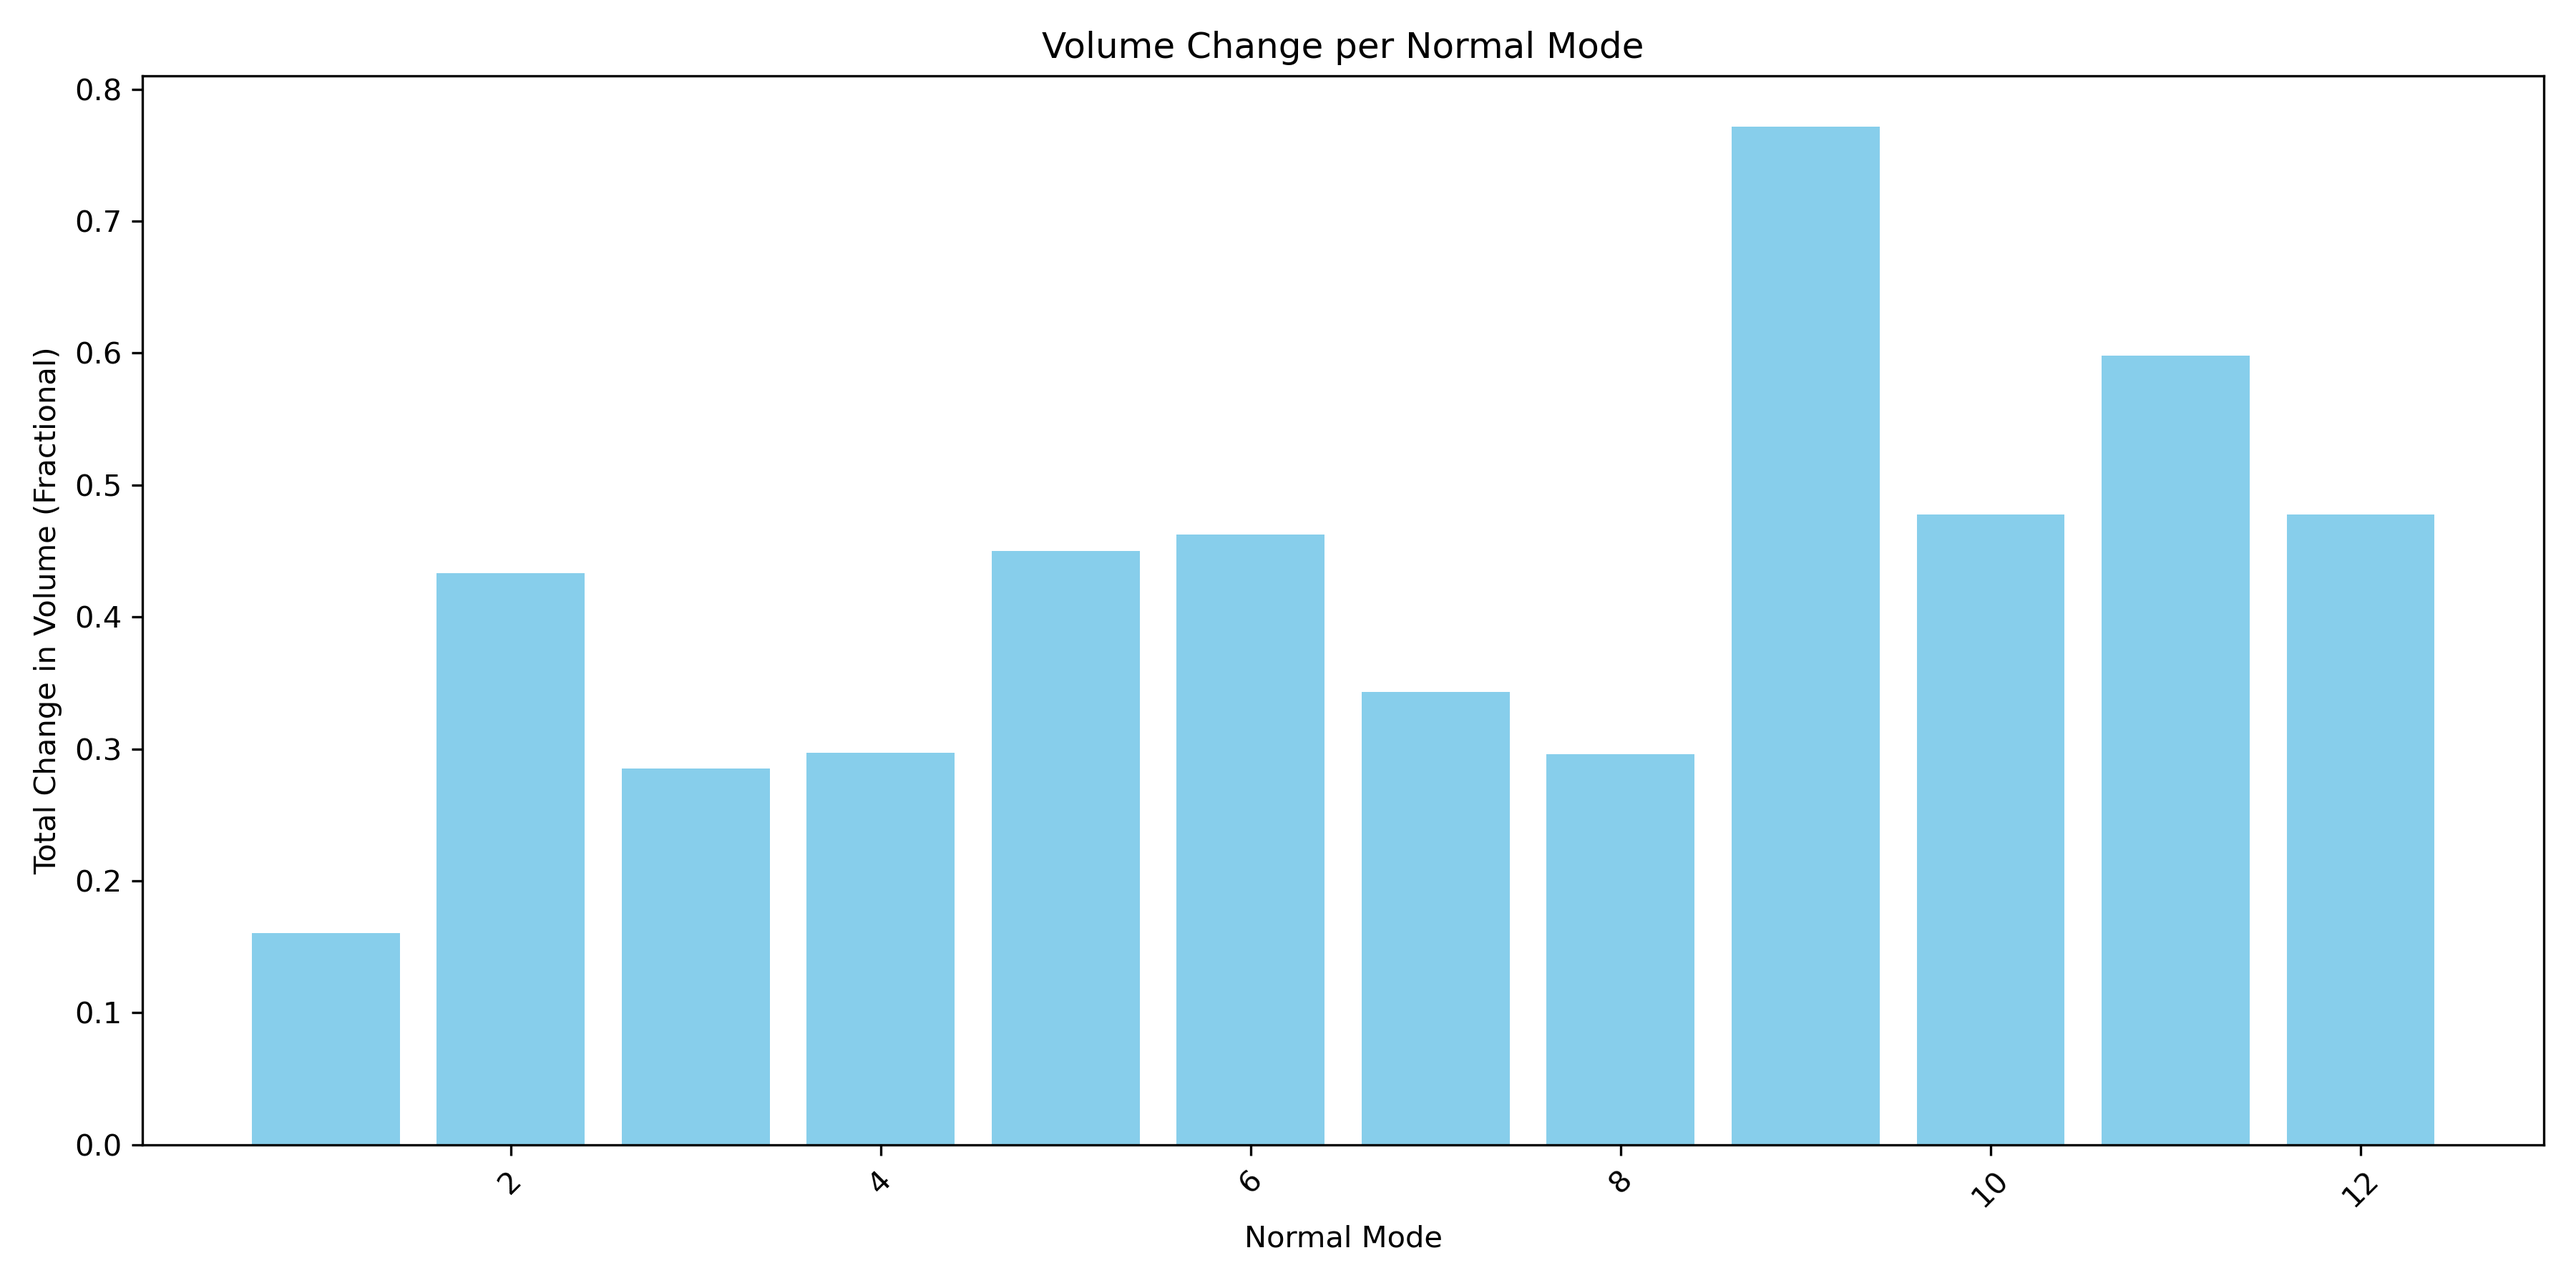
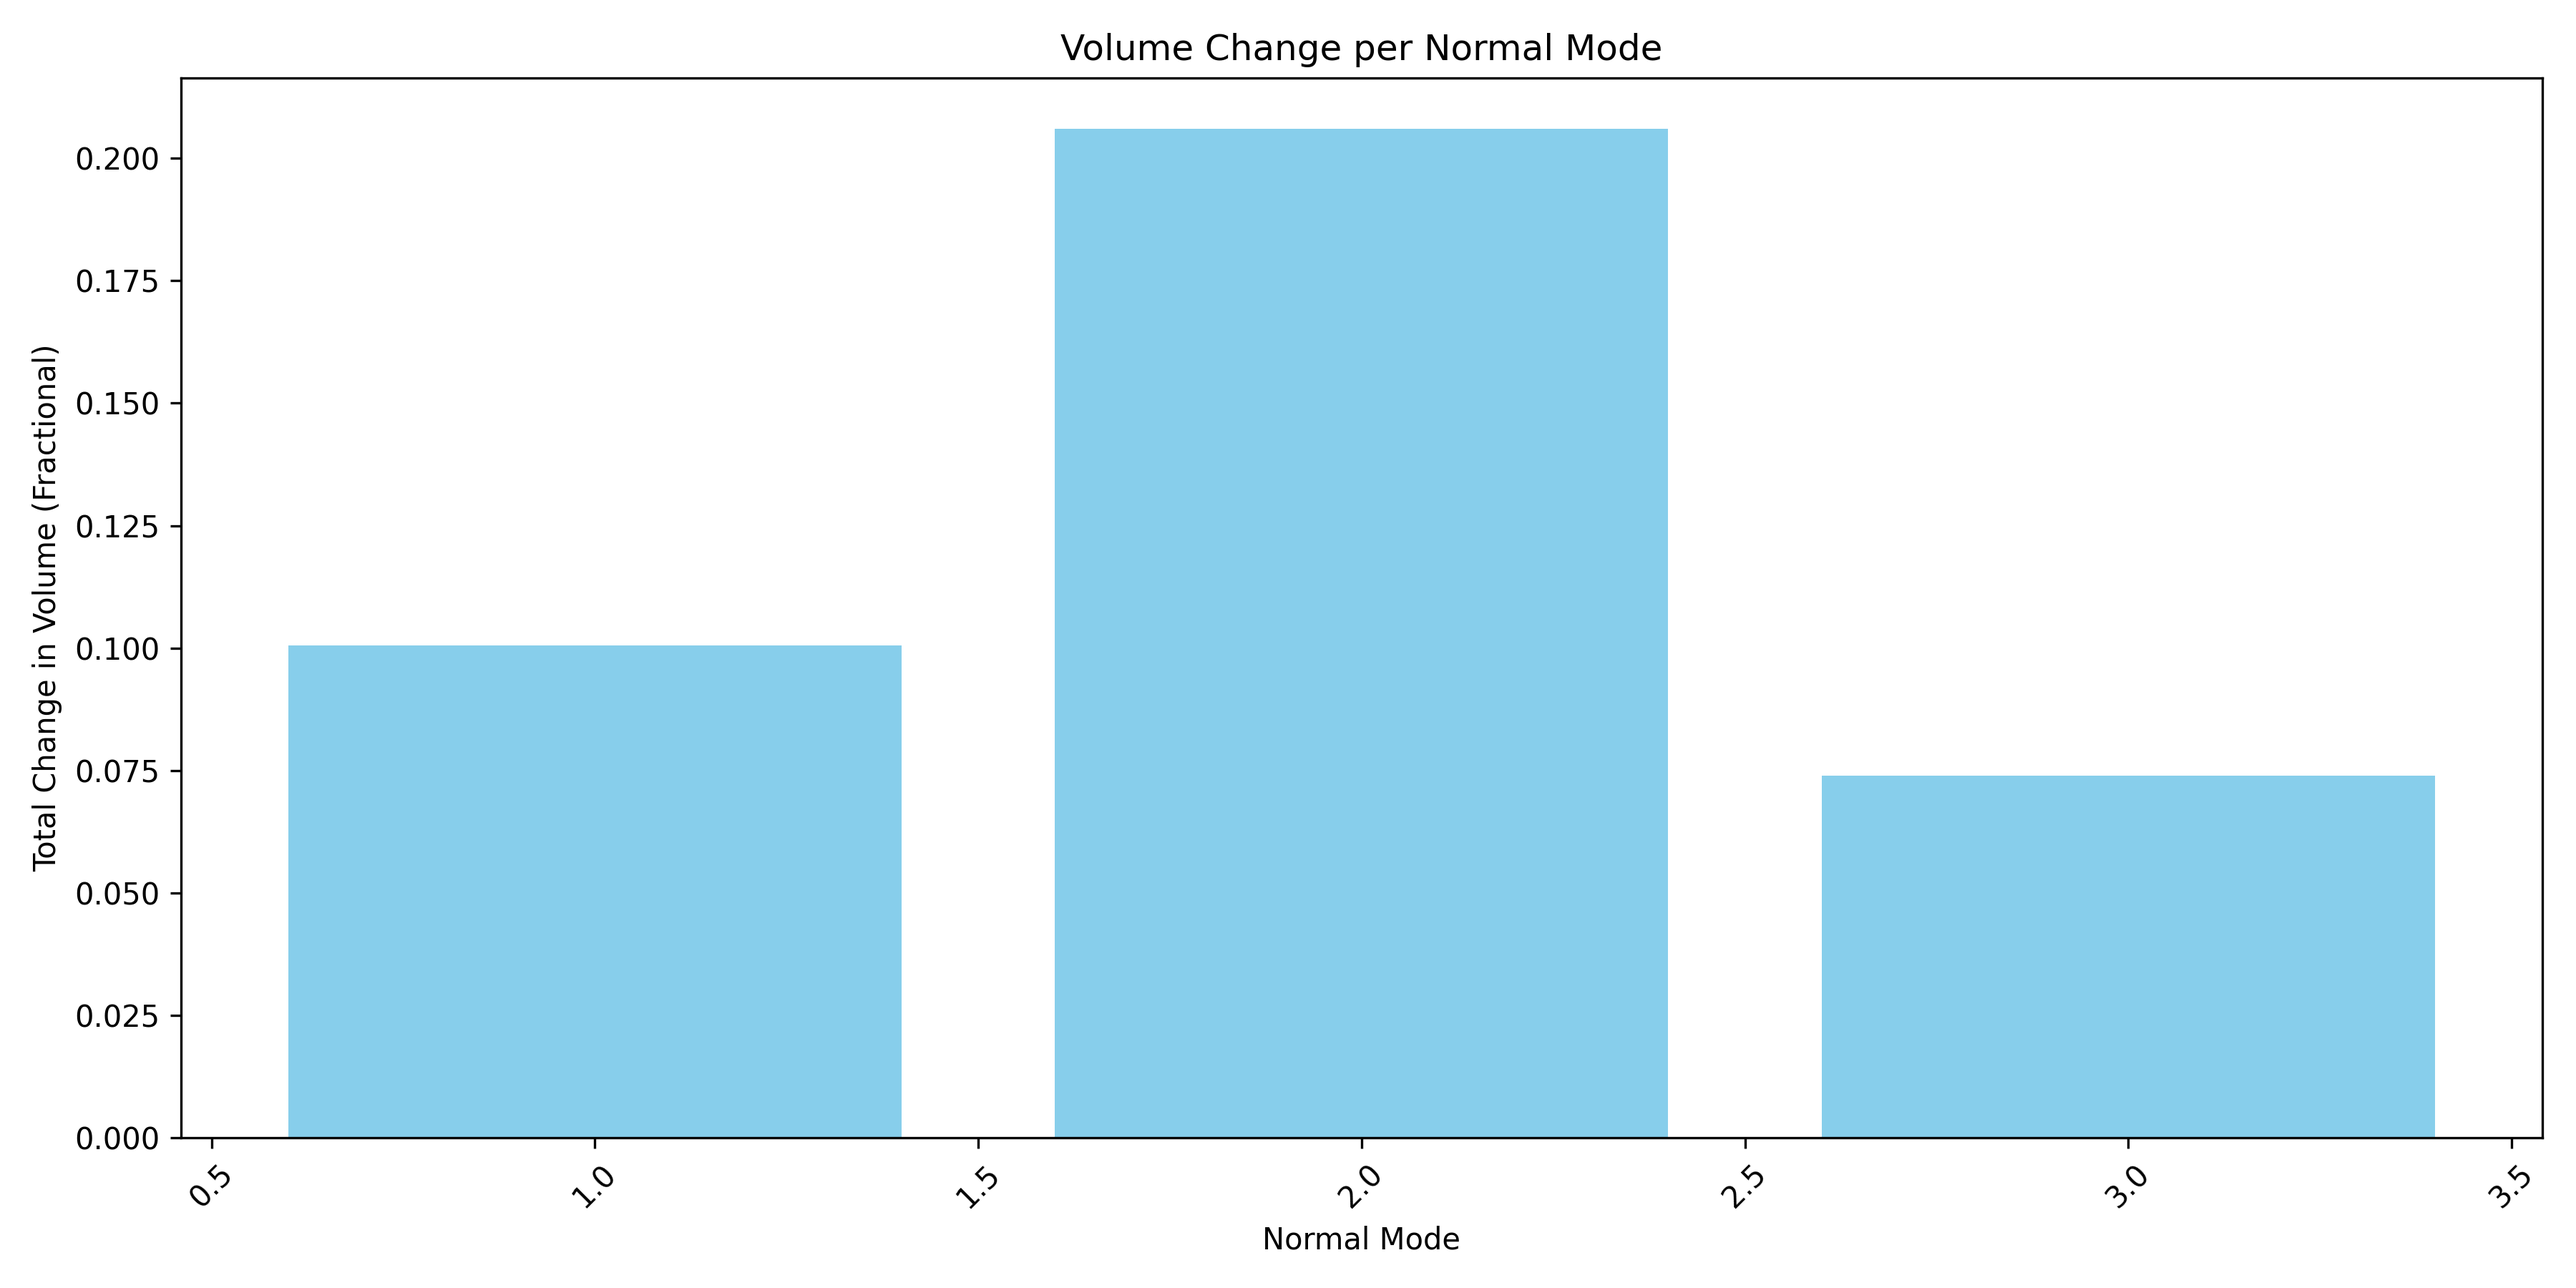
tests

diff --git a/vdw_density_integration.py b/vdw_density_integration.py
@@ -252,6 +252,35 @@ def retrieve_vdw_radii(molecule, elements_table):
 
     return vdw_radii
 
+def retrieve_polarizability(molecule, elements_table):
+    """ 
+    Retrieves the polarizability using mendeleev
+    """
+
+    cols = [
+        "atomic_number",
+        "symbol",
+        "dipole_polarizability"
+    ]
+    elements_table = elements_table[cols] 
+
+    polarizabilities = dict.fromkeys(molecule.keys())
+
+    for key in molecule.keys():
+        remove_digits = str.maketrans("","",digits)
+        key_without_digit = key.translate(remove_digits)
+        polarizability_key = elements_table[elements_table["symbol"]==key_without_digit]["dipole_polarizability"].values[0]
+        
+        # Unit is given in bohr^3
+        # Convert to Angstrom for radius usage
+
+        polarizability_key = np.sqrt(polarizability_key) * 0.52917721092 
+        polarizabilities[key] = polarizability_key
+
+    
+    
+    return polarizabilities
+
 def gaussian_3d(a=1,b=(1,1,1),c=1,x=(0,0,0)):
     """ 
     Computes a 3D gaussian function
@@ -489,6 +518,43 @@ def check_normalization(normal_mode):
     displacements = normal_mode["displacements"]
     disp_array = np.array([(d.get("x",0), d.get("y",0),d.get("z",0)) for d in displacements.values()])
 
+    
+def check_orthogonality(normal_modes):
+    """ 
+    Function to check the orthogonality of the normal modes 
+    """
+
+    # Each mode --> 1 Displacement vector
+    mode_vectors = []
+    for mode in normal_modes.values():
+        disp = mode["displacements"]
+        mode_vector = []
+        for atom, displacement in disp.items():
+            # Create a vector for the displacement
+            vector = np.array([
+                displacement.get("x", 0),
+                displacement.get("y", 0),
+                displacement.get("z", 0)
+            ])
+            mode_vector.extend(vector)
+        mode_vectors.append(np.array(mode_vector))
+
+    # Check orthogonality
+    num_modes = len(mode_vectors)
+    orthogonal = True
+    for i in range(num_modes):
+        for j in range(i + 1, num_modes):
+            dot_product = np.dot(mode_vectors[i], mode_vectors[j])
+            if not np.isclose(dot_product, 0, atol=1e-6):
+                #print(f"Modes {i+1} and {j+1} are not orthogonal (dot product: {dot_product})")
+                orthogonal = False
+    if orthogonal:
+        print("All modes are orthogonal.")
+    else:
+        print("Normal Modes are not orthogonal --> Non-Mass-Weighted Normal Modes")
+ 
+
+
 
 def calculate_volume_change(molecule, vdw_radii, normal_mode, lam_dis=0.1):
     """ 
@@ -554,7 +620,7 @@ def calculate_volume_change(molecule, vdw_radii, normal_mode, lam_dis=0.1):
         delta_S_over_S = - lam_dis / (c1_sq + c2_sq) * np.dot(d, delta_q)
 
         # Calculate absolute value and write to results
-        delta_S_over_S_abs = abs(delta_S_over_S)
+        delta_S_over_S_abs = np.abs(delta_S_over_S)
         results[(atom1, atom2)] = {
             "delta_S_over_S": delta_S_over_S,
             "delta_S_over_S_abs": delta_S_over_S_abs,
@@ -567,7 +633,99 @@ def calculate_volume_change(molecule, vdw_radii, normal_mode, lam_dis=0.1):
     # Calculate the total change as a sum of absolute changes
     total_change = sum(res['delta_S_over_S_abs'] for res in results.values())
     return total_change, results
-        
+
+
+# Ok maybe try a little bit different implementation
+
+def calculateS0(a1,a2,c1,c2):
+    """ 
+    Function that calculates the prefactor for the overlap integral
+    """
+    return a1 * a2 * (2 *np.pi * c1**2 * c2**2 / (c1**2 + c2**2))**(3/2)
+
+def calculate_initial_overlap(b1,b2,a1,a2,c1,c2):
+    """ 
+    Function that calculates the initial overlap S between the two Gaussians
+    """    
+    r = np.linalg.norm(np.array(b1) - np.array(b2))
+    exponent = -r**2 / (2 * (c1**2 + c2**2))
+    S0 = calculateS0(a1,a2,c1,c2)
+    return S0 * np.exp(exponent)
+
+def calculate_delta_S(S,r,u1,u2,c1,c2):
+    """ 
+    Function that calculates the change in overlap between two Gaussians where u1,u2 are the displacements at the gaussians
+    """
+    relative_disp = np.array(u1) - np.array(u2)
+    dot_product = np.dot(r, relative_disp)
+    return -S * (dot_product / (c1**2 + c2**2))
+
+
+def compute_mode_norm(displacments):
+    """ 
+    Computes the euclidian norm of the entire normal mode
+    """
+    total = 0.0
+    for atom, disp in displacments.items():
+        total += disp["x"]**2 + disp["y"]**2 + disp["z"]**2
+    return np.sqrt(total)
+
+
+
+def calculate_volume_change_v2(molecule, vdw_radii, normal_mode):
+    """ 
+    New function to calculate the volume change using the new approach
+    """
+    volume_changes = {}   
+
+    displacements = normal_mode['displacements']
+    a = normalization_parameter()  # Normalization parameter for Gaussian
+
+    atoms = list(displacements.keys())
+
+    # Calculate the norm of the normal mode
+    mode_norm = compute_mode_norm(displacements)
+    
+
+    total_delta_S = 0.0
+    for i in range(len(atoms)):
+        for j in range(i+1, len(atoms)): # Avoid Duplicates
+            atom1, atom2 = atoms[i], atoms[j]
+
+            # Get equilibrium positions and displacements
+            b1 = molecule[atom1]
+            b2 = molecule[atom2]
+            
+            # Get displacements for the current mode
+            u1 = np.array([
+                displacements[atom1].get('x', 0),
+                displacements[atom1].get('y', 0),
+                displacements[atom1].get('z', 0)
+            ])
+            u2 = np.array([
+                displacements[atom2].get('x', 0),
+                displacements[atom2].get('y', 0),
+                displacements[atom2].get('z', 0)
+            ])
+            # Calculate the initial overlap S0
+            c1 = vdw_radii[atom1] / 100  # Convert to Angstrom
+            c2 = vdw_radii[atom2] / 100  # Convert to Angstrom
+            
+            # Calculate the initial overlap S0
+            S0 = calculate_initial_overlap(b1, b2, a, a, c1, c2)
+            
+            # Calculate the Change in overlap delta_S
+            r = np.array(b1) - np.array(b2)  # Distance vector between the two atoms
+            delta_S = calculate_delta_S(S0, r, u1, u2, c1, c2)
+
+            # Store the results
+            volume_changes[f"{atom1}-{atom2}"] = delta_S
+            # Take the absolute value of the change
+            delta_S_abs = np.abs(delta_S)
+            total_delta_S += delta_S_abs
+
+    
+    return total_delta_S, volume_changes
 
 def barplot_change(results_change):
     """ 
@@ -614,22 +772,58 @@ def main():
 
     # Extract the vdw radii
     vdw_radii = retrieve_vdw_radii(molecule,elements_table) 
+    polarizabilities = retrieve_polarizability(molecule, elements_table)
+    print(polarizabilities, vdw_radii)
     pairwise_overlaps_dict = compute_pairwise_vdw_overlaps(molecule,vdw_radii)
 
     detailed_results_change = []
     results_change = []
-    for mode in normal_modes.keys():
 
-        total_change_mode, detailed_results = calculate_volume_change(molecule, vdw_radii, normal_modes[mode], lam_dis=0.1)
-        detailed_results_change.append({
-            "mode": mode,
-            "total_change": total_change_mode,
-            "detailed_results": detailed_results
-        }) 
-        results_change.append({
-            "mode": mode,
-            "total_change": total_change_mode
-        })
+
+    # Check Orthogonality
+    check_orthogonality(normal_modes)
+
+    # Calculate the volume change for each normal mode
+
+    changes_results = {}
+    delta_S_list = []
+    for mode in normal_modes.keys():
+        total_delta_S, changes = calculate_volume_change_v2(molecule, vdw_radii, normal_modes[mode])
+        changes_results[mode] = {
+            "total_change": total_delta_S,
+            "changes": changes
+        }
+        delta_S_list.append(total_delta_S)
+    print(delta_S_list)
+
+    # Plot delta_S_list
+    plt.figure(figsize=(10, 6))
+    plt.bar(changes_results.keys(), delta_S_list, color='skyblue')
+    plt.xlabel('Normal Mode')
+    plt.ylabel('Volume Change Delta S')
+    plt.title('Volume Change per Normal Mode')
+    plt.xticks(rotation=45)
+    plt.tight_layout()
+    plt.savefig("volume_change_per_normal_mode_v2.png", dpi=300)
+    plt.show()
+
+
+
+#    for mode in normal_modes.keys():
+#
+#        total_change_mode, detailed_results = calculate_volume_change(molecule, vdw_radii, normal_modes[mode], lam_dis=0.1)
+#        detailed_results_change.append({
+#            "mode": mode,
+#            "total_change": total_change_mode,
+#            "detailed_results": detailed_results
+#        }) 
+#        results_change.append({
+#            "mode": mode,
+#            "total_change": total_change_mode
+#        })
+#
+#    print(normal_modes)
+    
     
 
     
@@ -639,7 +833,7 @@ def main():
     # Some visualization functions
     #plot_vdw_gaussian_density(molecule,vdw_radii,resolution=50,isovalue=0.5)
     #visualize_normal_mode(molecule,normal_modes,3)
-    barplot_change(results_change)
+    #barplot_change(results_change)
 
 
 

diff --git a/formulas.md b/formulas.md
@@ -1,0 +1,92 @@
+# Overlap Integral Calculation for Normal Modes
+
+## Some General Definitions
+
+**3D Gaussian Function**
+
+Given by 
+
+$$f_i(r) = a_i \exp\left(-\frac{(r-b_i)^T(r-b_i)}{2c_i^2}\right)$$ 
+
+where:
+
+- $a_i$ is the amplitude,
+- $b_i$ is the center,
+- $c_i$ is the width.
+
+**Overlap Integral**
+
+As $r=(x,y,z)$ is a position vector and $b_i = (b_{ix}, b_{iy}, b_{iz})$ is the center of the Gaussian, the overlap integral is defined as:
+
+
+$$S= \int_{\mathbb{R}^3} f_i(r) f_j(r) dr = \int_{-\infty}^{+\infty} \int_{-\infty}^{+\infty} \int_{-\infty}^{+\infty} f_i(x,y,z) f_j(x,y,z) dx dy dz$$
+
+We can use the Gaussian Product Theorem and know that the integral of a general Gaussian function is given by $\int_{-\infty}^{\infty} \exp(-\alpha u^2) du = \sqrt{\frac{\pi}{\alpha}}$.
+
+This leads us in the end to the expression:
+
+$$S = a_1 a_2 \left(\frac{2\pi c_1^2 c_2^2}{c_1^2 + c_2^2}\right)^{3/2} \exp\left(-\frac{(b_1 - b_2)^T(b_1 - b_2)}{2(c_1^2 + c_2^2)}\right)$$
+
+**Normalization to the Volume of the VDW Sphere**
+
+In order to determine the parameters $a_i$ for our Gaussian functions we have to normalize the Gaussian function to the volume of the VDW sphere. Mathematically this means:
+
+$$\int_{\mathbb{R}^3} f_i(r) dr = V_{vdw} = \frac{4}{3} \pi r_{vdw}^3$$
+
+This leads us after some tedious calculations to the expression:
+
+$$a_i = \frac{r^3_{vdw}}{3\sqrt{2\pi} c_i^3}$$
+
+As we model the Gaussian Sphere at the moment we take $c_i = r_{vdw}$, which leads to:
+
+$$a_i = \frac{r^3_{vdw}}{3\sqrt{2\pi} r_{vdw}^3} = \frac{1}{3\sqrt{2\pi}}$$
+
+
+## Determining the Volume Change 
+
+The following figure shows two atoms with centers $b_1$ and $b_2$ which are distanced by $d = ||b_1 - b_2||$. We now want to calculate the volume change of the VDW spheres if these atoms are displaced by some vectors $u_1$ and $u_2$. In reality this vectors will the be the normal modes of the molecule.
+
+![alt text](image.png)
+
+After the displacements we get new centers $b_1' = b_1 + u_1$ and $b_2' = b_2 + u_2$ we can insert this into the overlap integral:
+
+$$S(b_1',b_2') = a_1 a_2 \left(\frac{2\pi c_1^2 c_2^2}{c_1^2 + c_2^2}\right)^{3/2} \exp\left(-\frac{(b_1' - b_2')^T(b_1' - b_2')}{2(c_1^2 + c_2^2)}\right)$$
+
+$$S(b_1 + u_1, b_2 + u_2) = a_1 a_2 \left(\frac{2\pi r_{vdw}^4}{2r_{vdw}^2}\right)^{3/2} \exp\left(-\frac{(b_1 - b_2 + u_1 - u_2)^T(b_1 - b_2 + u_1 - u_2)}{2(c_1^2 + c_2^2)}\right)$$
+
+To simplify this we denote $S_0 = a_1a_2 \left(\frac{2\pi r_{vdw}^4}{2r_{vdw}^2}\right)^{3/2}$
+
+$$S(b_1 + u_1, b_2 + u_2) = S_0 \exp\left(-\frac{(b_1 - b_2 + u_1 - u_2)^T(b_1 - b_2 + u_1 - u_2)}{2(c_1^2 +c_2^2)}\right)$$
+
+### Directional Derivative
+
+We now want a formula to estimate the rate at which our overlap integral changes in a particular direction. This is given by the directional derivative, Because our function is differentiable anyways, we can write the directional derivative as:
+
+$$\nabla_v f(x) = \nabla f(x) \cdot v$$
+
+where $v$ is the direction in which we want to calculate the derivative
+
+### Calculation of the Gradient
+
+Define $r = b_1 - b_2 + u_1 - u_2$ then our overlap integral can be written as:
+
+$$S(b_1 + u_1, b_2 + u_2) = S_0 \exp\left(-\frac{r^Tr}{2(c_1^2+c_2^2)}\right)$$
+
+**Gradient $\nabla_{u_1}S$**
+
+$$\nabla_{u_1}S = S_0 \exp\left(-\frac{r^Tr}{2(c_1^2+c_2^2)}\right) \cdot \nabla_{u_1}\left(-\frac{r^Tr}{2(c_1^2+c_2^2)}\right)$$
+
+Where we can now use $\nabla_{u_1}r = \nabla_{u_1}(b_1 - b_2 + u_1 - u_2) = e_1$ (the unit vector in the direction of $u_1$), which implies $\nabla r = 2r$
+
+$$\nabla_{u_1}S = S\cdot(-\frac{2r}{2(c_1^2+c_2^2)}) = -\frac{Sr}{c_1^2 + c_2^2}$$
+
+**Gradient $\nabla_{u_2}S$**
+
+Here we get exactly the same result but with a different sign:
+
+$$\nabla_{u_2}S = S\cdot(-\frac{2r}{2(c_1^2+c_2^2)}) = \frac{Sr}{c_1^2 + c_2^2}$$
+
+Already for this simple model this gives us a approximation of the change in the overlap we have to calculate, for small displacments
+
+$$\Delta S \approx \nabla_{u_1}S + \nabla_{u_2}S$$
+
